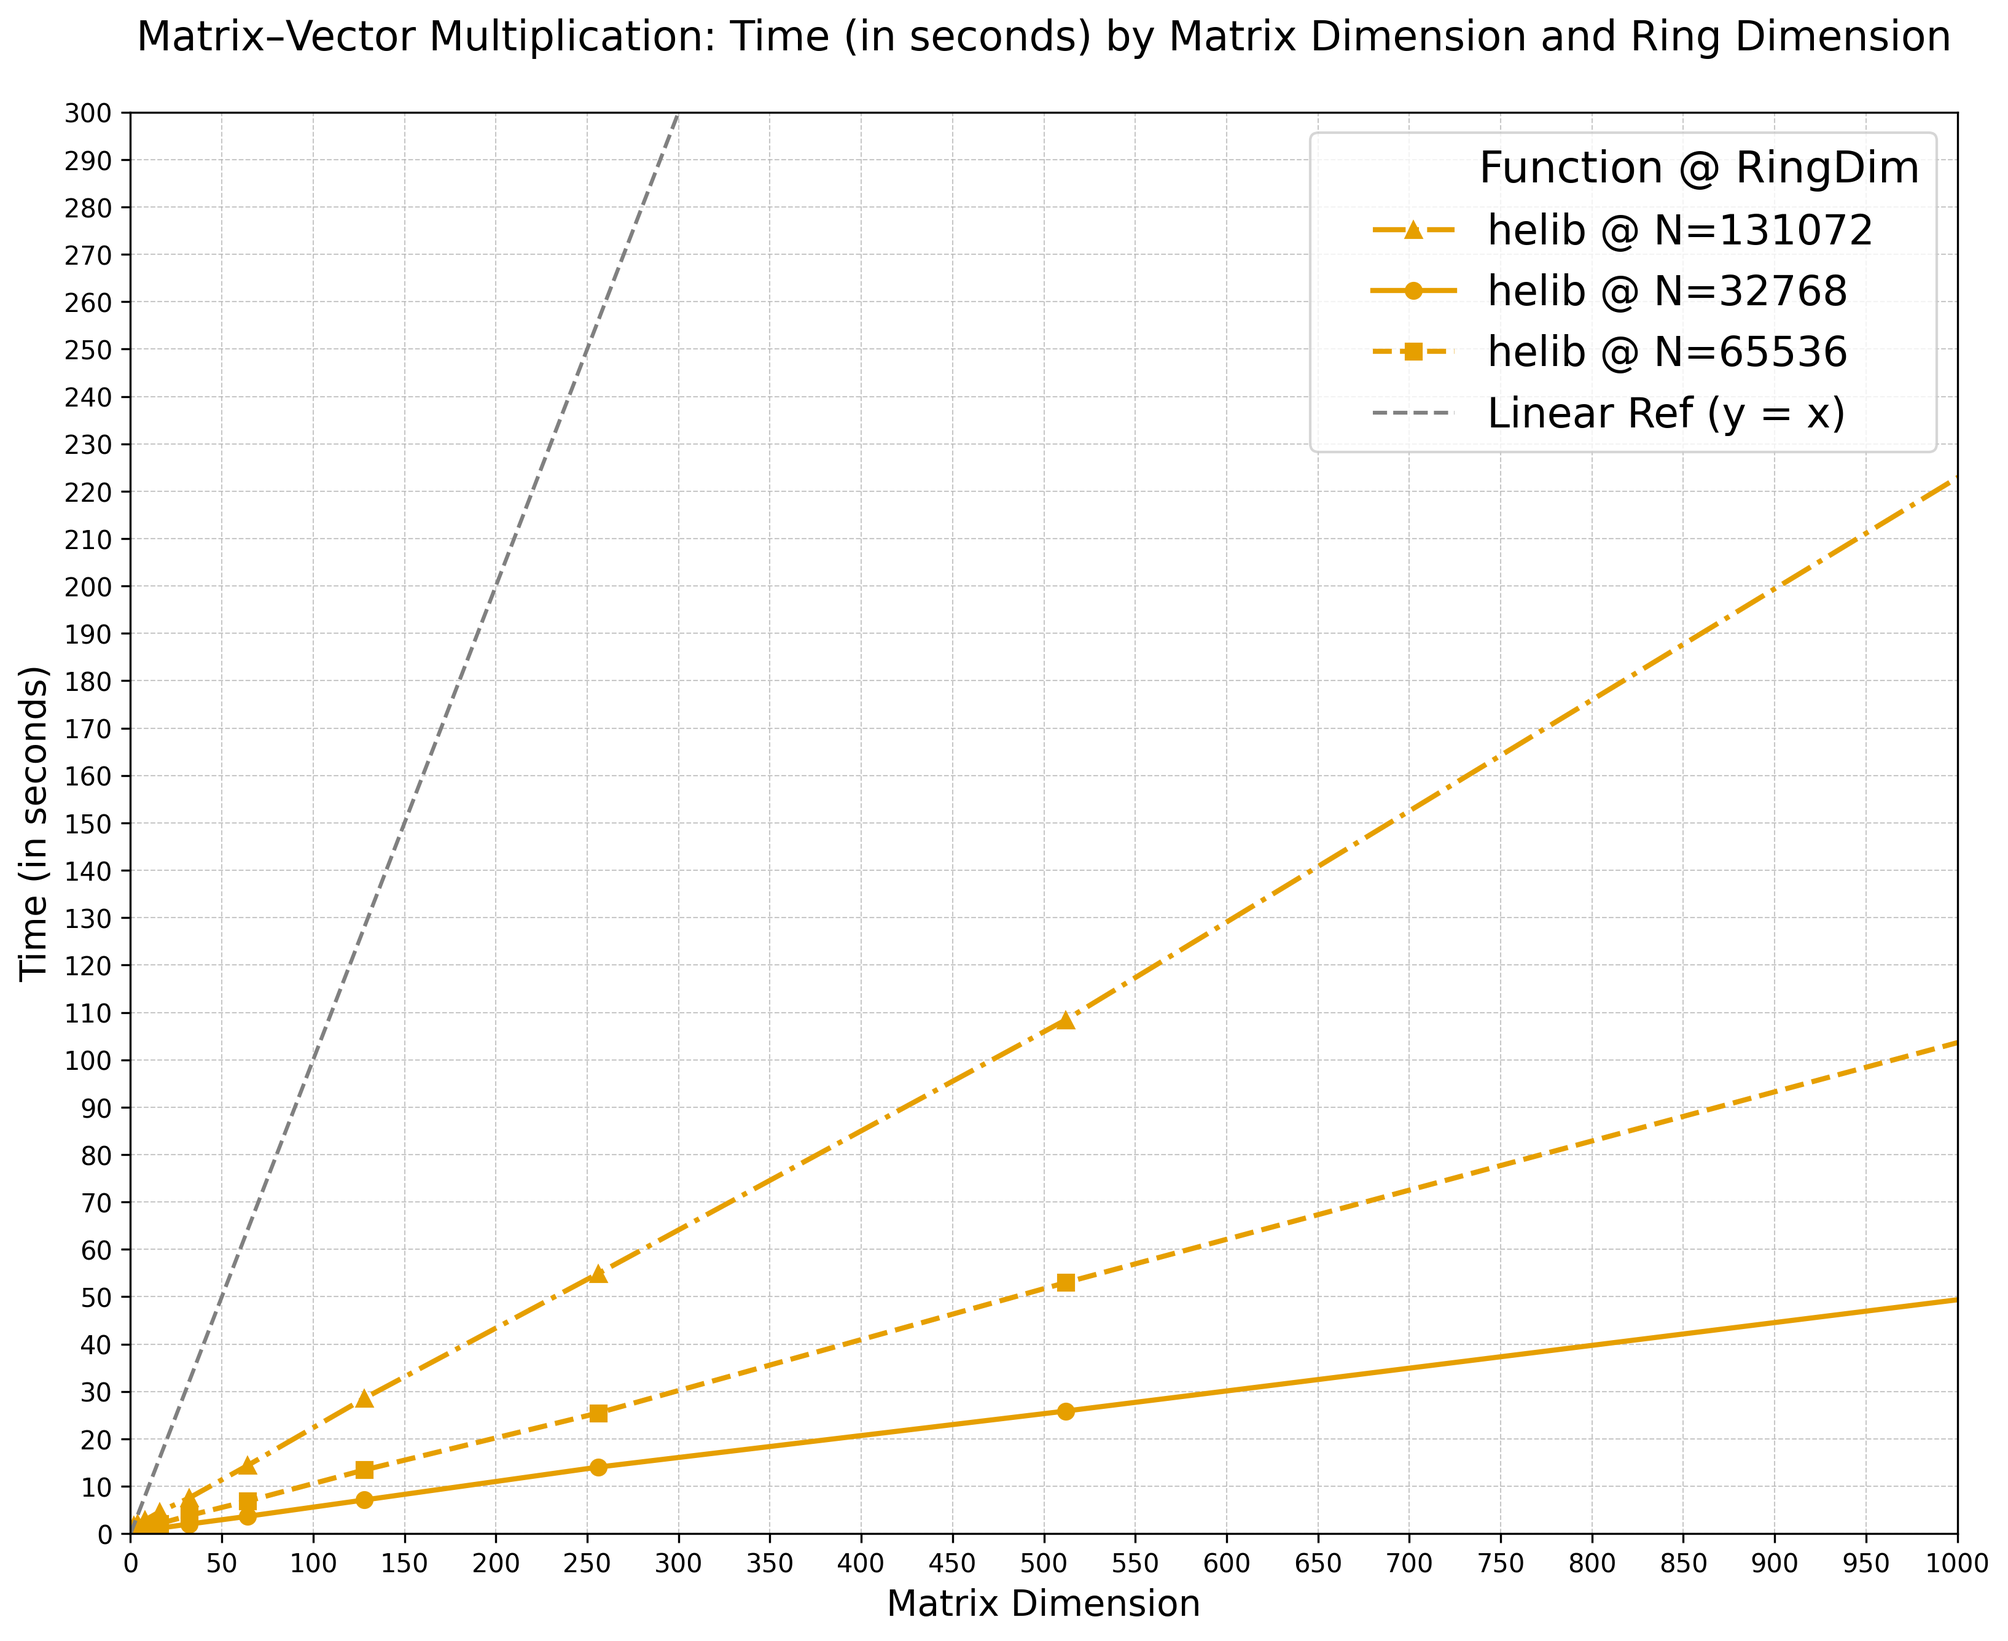
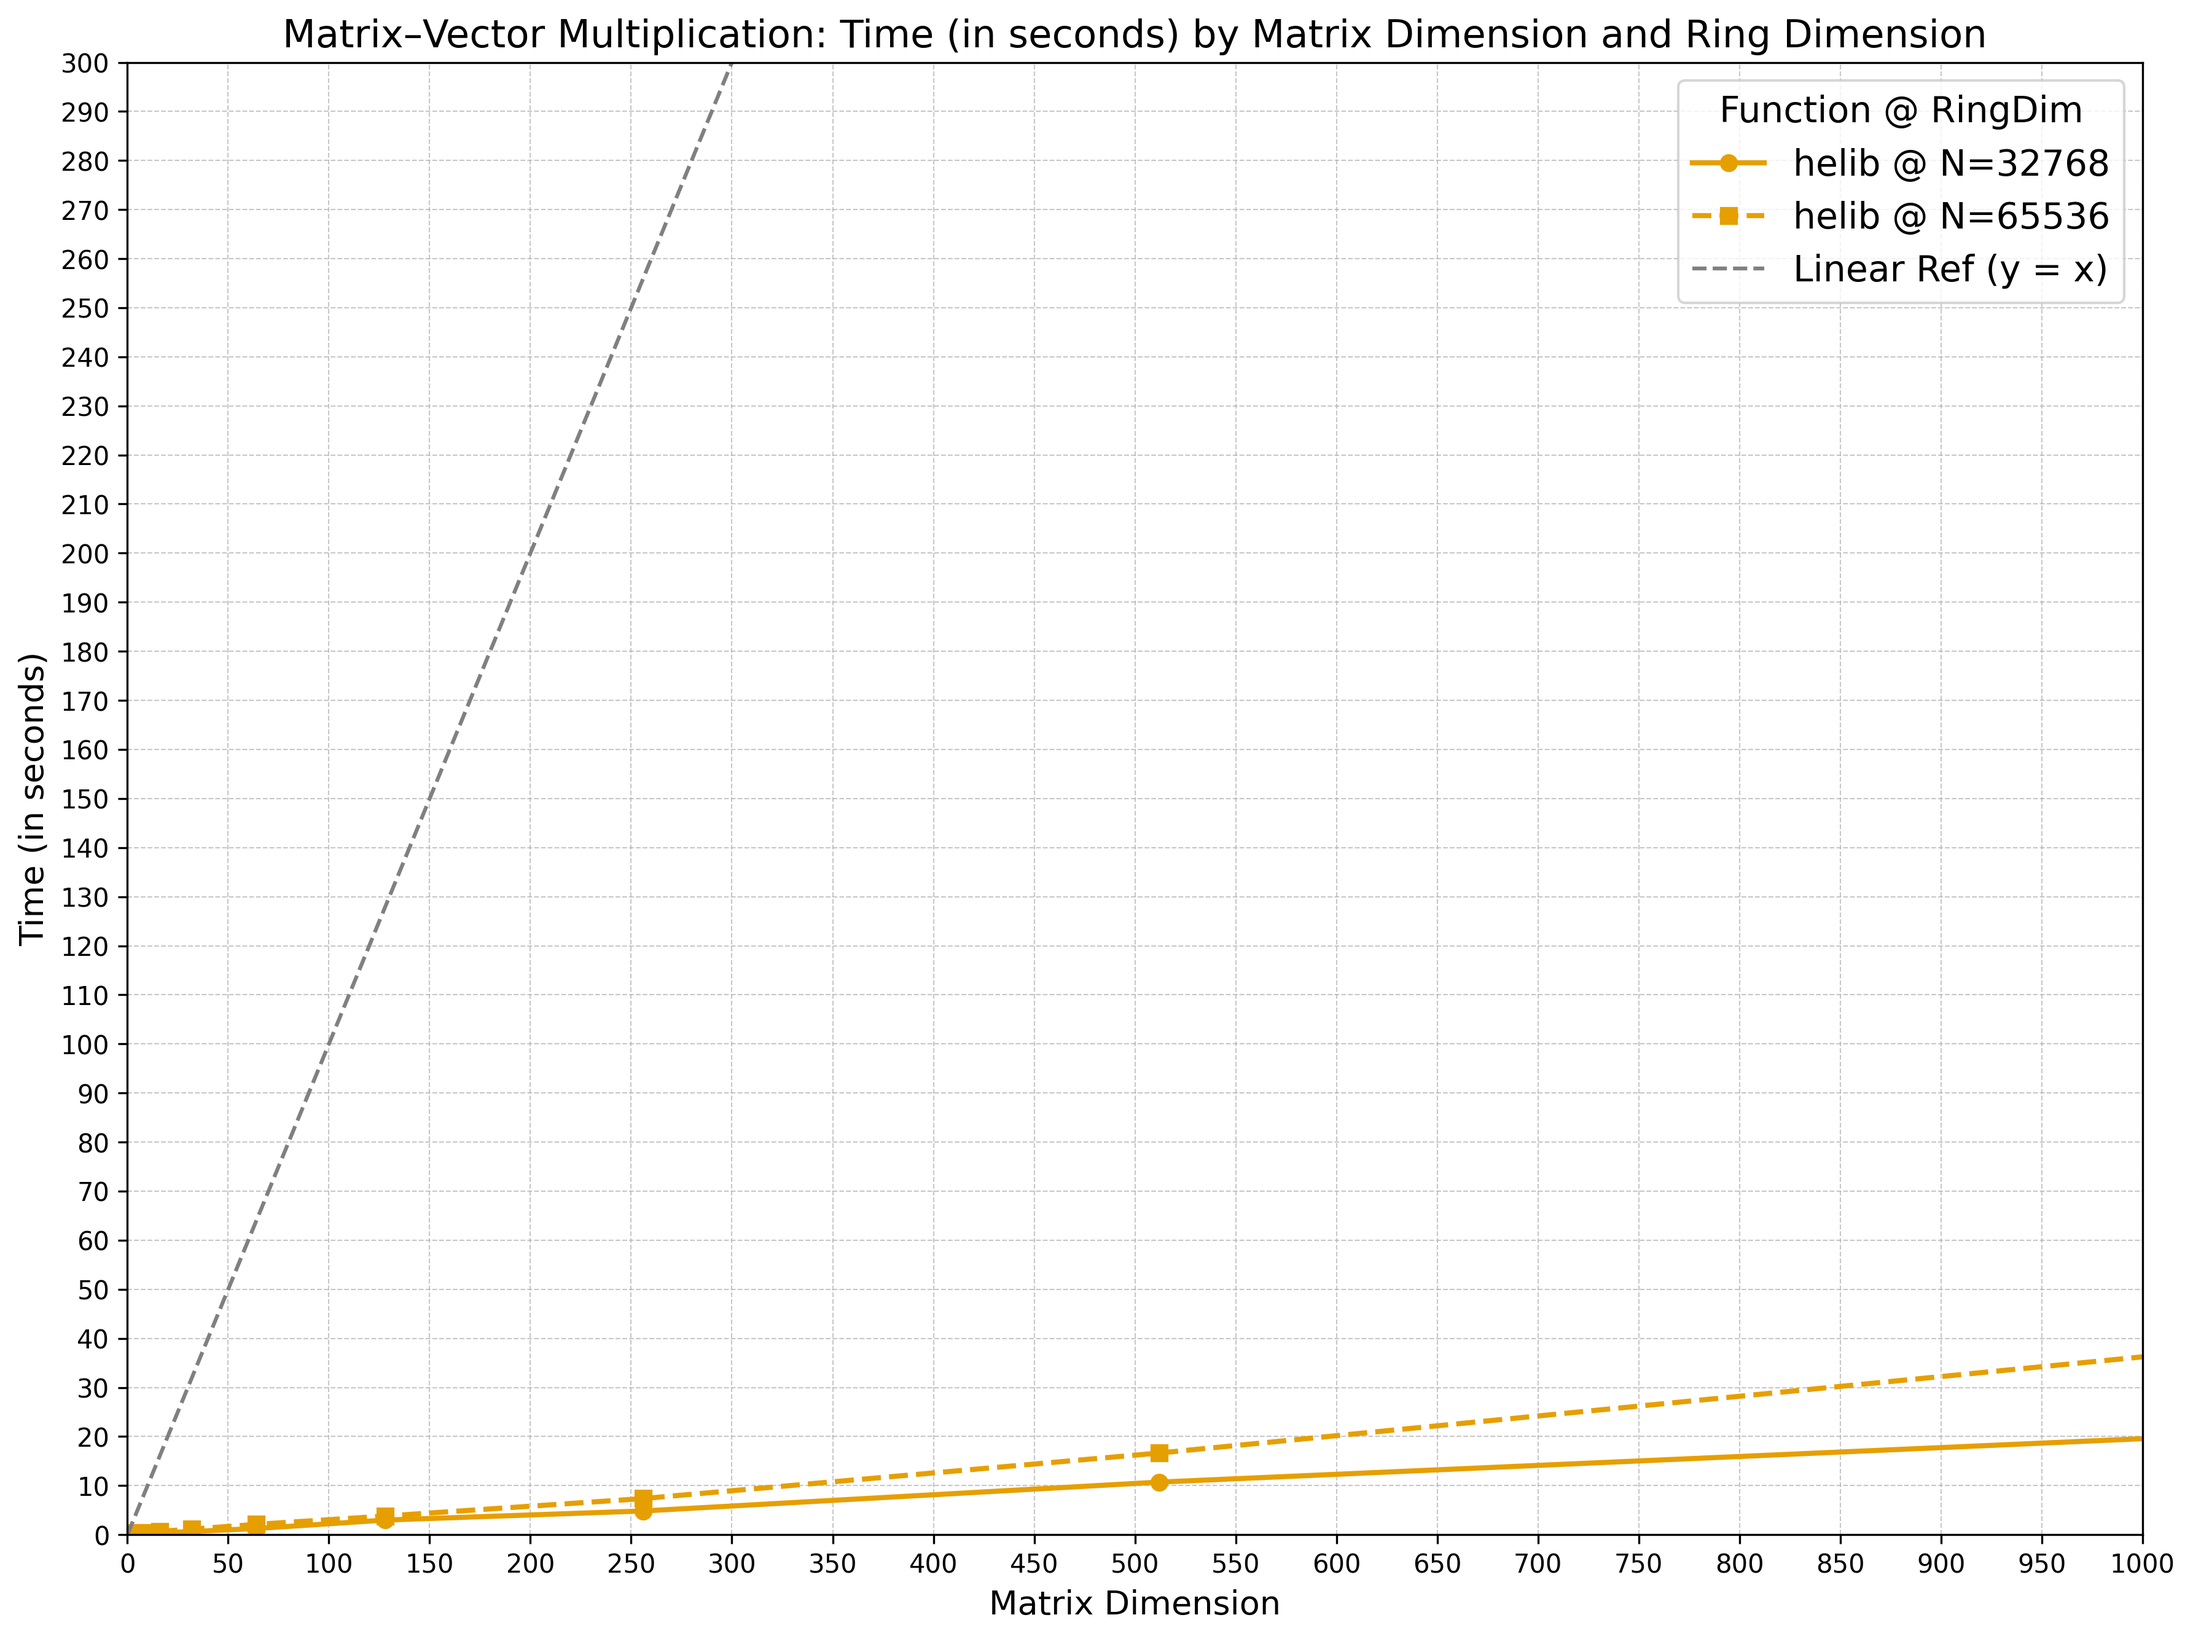
updating matvec plot

diff --git a/bench/matvec/plot.py b/bench/matvec/plot.py
@@ -7,7 +7,7 @@ from matplotlib.ticker import FuncFormatter
 
 # ---------- Configuration ----------
 CSV_FILENAME = "matvec_ring_bench.csv"
-OUTPUT_PNG = "matvec_equal_linear.png"
+OUTPUT_PNG = "matvec_plot.png"
 COLORS = {
     "helib": "#E69F00",
     "parallel": "#56B4E9",
@@ -43,10 +43,8 @@ def get_style_map(unique_keys):
         key: (LINESTYLES[i % len(LINESTYLES)], MARKERS[i % len(MARKERS)])
         for i, key in enumerate(unique_keys)
     }
-
-# ---------- Plotting ----------
 def plot_equal_linear(df, output_path):
-    fig, ax = plt.subplots(figsize=(9, 9))  # Square canvas
+    fig, ax = plt.subplots(figsize=(12, 9))
 
     ring_dims = sorted(df["ring_dim"].unique(), key=int)
     style_map = get_style_map(ring_dims)
@@ -64,28 +62,33 @@ def plot_equal_linear(df, output_path):
             markersize=6
         )
 
-    # Equal linear axis scaling
-    max_val = int(max(df["matrix_size"].max(), df["time_s"].max()) // 100 + 1) * 100
-    ticks = np.arange(0, max_val + 100, 100)
-    ax.set_xlim(0, max_val)
-    ax.set_ylim(0, max_val)
+    # Fixed axis limits
+    ax.set_xlim(0, 1000)
+    ax.set_ylim(0, 300)
+    ticks_x = np.arange(0, 1001, 50)
+    ticks_y = np.arange(0, 301, 10)
+    ax.set_xticks(ticks_x)
+    ax.set_yticks(ticks_y)
 
+    ax.xaxis.set_major_formatter(FuncFormatter(lambda x, _: f"{int(x)}"))
+    ax.yaxis.set_major_formatter(FuncFormatter(lambda y, _: f"{int(y)}"))
+    ax.grid(which="major", linestyle="--", linewidth=0.5, alpha=0.7)
 
-    # ax.set_xticks(ticks)
-    # ax.set_yticks(ticks)
-    # ax.xaxis.set_major_formatter(FuncFormatter(lambda x, _: f"{int(x)}"))
-    # ax.yaxis.set_major_formatter(FuncFormatter(lambda y, _: f"{int(y)}"))
-    # ax.grid(which="major", linestyle="--", linewidth=0.5, alpha=0.7)
+    # Linear reference line (y = x)
+    x_ref = np.array([0, 1000])
+    y_ref = x_ref
+    ax.plot(x_ref, y_ref, linestyle="--", color="gray", linewidth=1.5, label="Linear Ref (y = x)")
 
     # Labels and legend
-    ax.set_xlabel("Matrix Size", fontsize=13)
-    ax.set_ylabel("Time (s)", fontsize=13)
+    ax.set_xlabel("Matrix Dimension", fontsize=13)
+    ax.set_ylabel("Time (in seconds)", fontsize=13)
     ax.set_title(
-        "Matrix–Vector Multiplication (linear, equal axes, 100‑unit grid)",
+        "Matrix–Vector Multiplication: Time (in seconds) by Matrix Dimension and Ring Dimension",
         fontsize=15
     )
-    ax.legend(title="Function@RingDim", loc="upper left")
+    ax.legend(title="Function @ RingDim", loc="upper right", title_fontsize=14, fontsize=14)
     ax.format_coord = lambda x, y: f"(x,y)=({x:.0f},{y:.0f})"
+
 
     # Save and show
     plt.tight_layout()
@@ -97,3 +100,5 @@ def plot_equal_linear(df, output_path):
 if __name__ == "__main__":
     df = load_and_prepare_data(CSV_PATH)
     plot_equal_linear(df, OUTPUT_PATH)
+
+

diff --git a/src/matvec.cpp b/src/matvec.cpp
@@ -170,7 +170,7 @@ bool RunMatrixVectorMultiplication(std::string functionType, uint32_t ringDim, u
     double ms = std::chrono::duration<double, std::milli>(end - start).count();
 
     std::cout << "🔢  Matrix dimension:  " << std::setw(18) << dim << "\n";
-    std::cout << "⏱   Total time:     " << std::setw(18) << std::fixed << std::setprecision(2) << ms << " ms\n";
+    std::cout << "⏱  Total time:     " << std::setw(18) << std::fixed << std::setprecision(2) << ms << " ms\n";
     std::cout << "🔍  Correctness:        " << std::setw(18) << (isEqual ? "✅" : "❌") << "\n\n";
 
     return isEqual;

diff --git a/src/utils/helper_utils.cpp b/src/utils/helper_utils.cpp
@@ -94,7 +94,7 @@ namespace utils {
                 "Unknown";
 
             std::cout << "🔒  Security Level:    " << std::setw(18) << levelStr << "\n";
-            std::cout << "🎚   Scaling Technique: " << std::setw(18) << static_cast<int>(cryptoParamsCKKS->GetScalingTechnique()) << "\n";
+            std::cout << "🎚  Scaling Technique: " << std::setw(18) << static_cast<int>(cryptoParamsCKKS->GetScalingTechnique()) << "\n";
         } else {
             std::cout << "⚠ CKKS-specific parameters unavailable.\n";
         }
